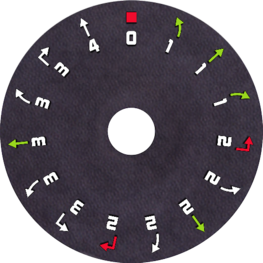
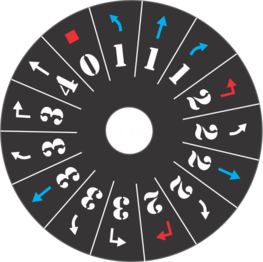
new version - approaching 1.0

diff --git a/xwing_dial/game.js b/xwing_dial/game.js
@@ -7,6 +7,9 @@ var init_dials = [];
 // the spinning wheel DIALS
 var wheel = {};
 
+// red frame selector
+var selector = {}
+
 //
 var lock = {};
 
@@ -198,6 +201,7 @@ playGame.prototype = {
             game.load.image("unlock", "unlock.png");
             game.load.image("lock", "lock.png");
             game.load.image("pin", "pin.png");     
+            game.load.image("dial_selector", "dial_selector.png")
             Phaser.Canvas.setTouchAction(game.canvas, "auto"); // disable the default "none" so enable scroll
             game.input.touch.preventDefault = false;
 
@@ -209,25 +213,29 @@ playGame.prototype = {
 
         for (var i=0;i<dials;i++) {
             var key = "wheel_"+i;
+
             // add the back dial
             var backdial = game.add.sprite(game.width / 2 , 350*(i+0.5)+20, "rebel_back" );
             backdial.anchor.set(0.5);
 
             // adding the wheel in the middle of the canvas
             wheel[key] = game.add.sprite(game.width / 2 , 350*(i+0.5)+20, init_dials[i].ship_id+"_dial" );
-
-            // setting wheel registration point in its center
             wheel[key].anchor.set(0.5);
             wheel[key].inputEnabled = true;
             wheel[key].__mykey = key;
             game.add.tween(wheel[key]).to({angle:angles[key]},500,Phaser.Easing.Quadratic.Out,true);
 
             // to lock/unlock the dial
-            lock[key] = game.add.sprite(game.width-64, 350*i+20, 'lock' )
+            lock[key] = game.add.sprite(game.width-64, 350*i+20, 'unlock' )
             lock[key].inputEnabled = true;
             lock[key].__mykey = key;
             lock[key].events.onInputDown.add(this.toggleLockDial,this);
             lock[key].events.onInputUp.add(this.releaseLockDial,this);
+
+            // dial selector
+            selector[key] = game.add.sprite( game.width/2, 350*i+100, "dial_selector" );
+            selector[key].anchor.set(0.5);
+            selector[key].inputEnabled = false;
 
             // text
             var tmp_id = init_dials[i].ship_id+init_dials[i].pilot_name
@@ -247,14 +255,16 @@ playGame.prototype = {
         saveState();
 	},
     toggleLockDial(o,e){
-        if ( o.key=='lock' ) {
-            o.loadTexture( 'unlock' )
+        if ( o.key=='unlock' ) {
+            o.loadTexture( 'lock' )
             wheel[o.__mykey].alpha =  0.0
             wheel[o.__mykey].inputEnabled = false
+            selector[o.__mykey].alpha = 0.0;
         } else {
-            o.loadTexture( 'lock' )
+            o.loadTexture( 'unlock' )
             wheel[o.__mykey].alpha =  1.0
             wheel[o.__mykey].inputEnabled = true
+            selector[o.__mykey].alpha = 1.0;
         }
         game.input.touch.preventDefault = true; // disable scroll for now
     },
